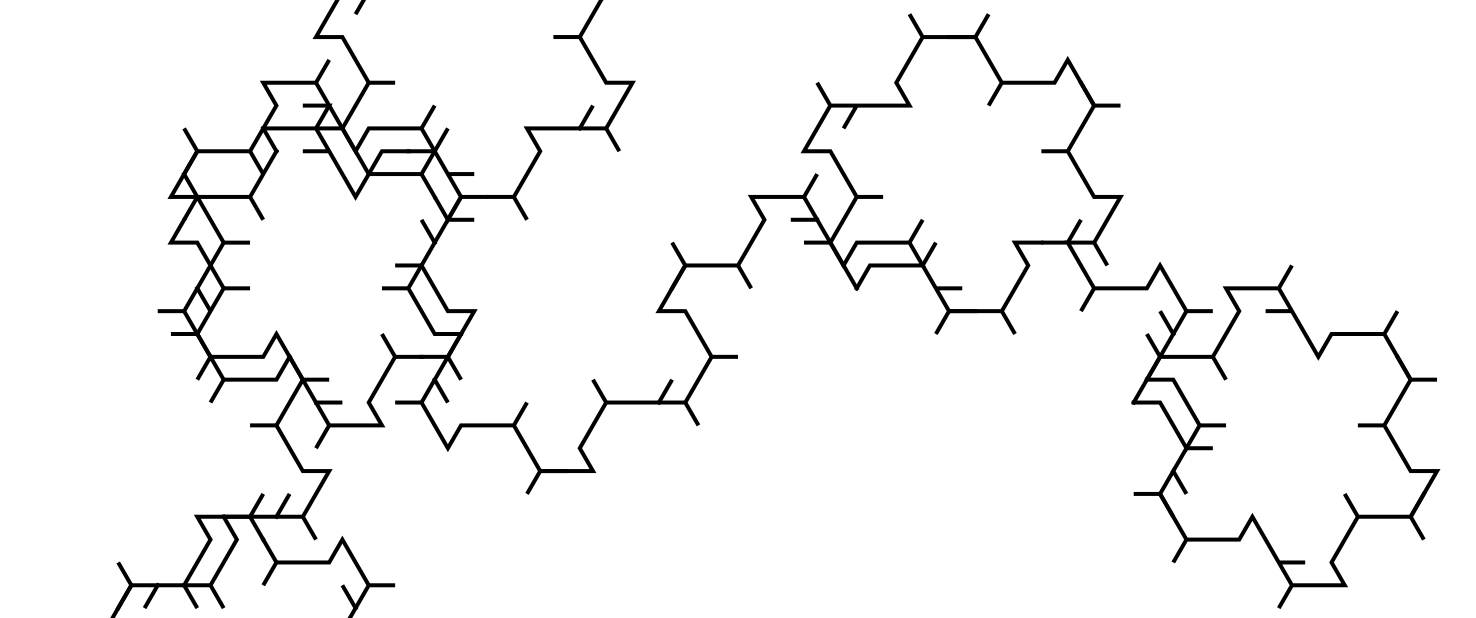
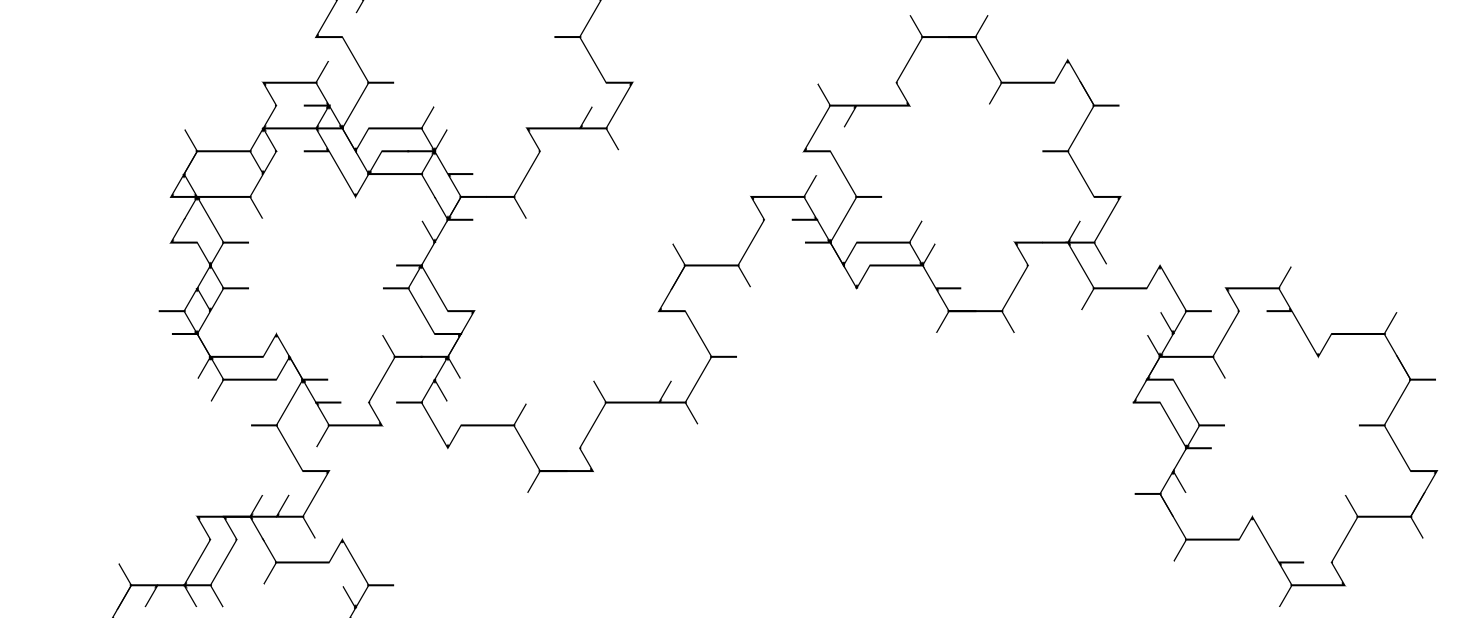
b&w old covers

diff --git a/content/posts/2025-05-12-beyond-hype-reasoning-models/post.md b/content/posts/2025-05-12-beyond-hype-reasoning-models/post.md
@@ -3,7 +3,7 @@ title: "Beyond the hype of reasoning models: debunking three common misunderstan
 description: "This is a teaser for my upcoming talk at ODSC East 2025, \"LLMs that Think: Demystifying Reasoning Models\". If you want to learn more, join the webinar!"
 date: 2025-05-12
 author: "ZanSara"
-featured-image: "/posts/2025-05-12-beyond-hype-reasoning-models/cover.png"
+featured-image: "/posts/2025-05-12-beyond-hype-reasoning-models/cover-inv.png"
 ---
 
 With the release of OpenAI’s o1 and similar models such as DeepSeek R1, Gemini 2.0 Flash Thinking, Phi 4 Reasoning and more, a new type of LLMs entered the scene: the so-called reasoning models. With their unbelievable scores in the toughest benchmarks for machine intelligence, reasoning models immediately got the attention of most AI enthusiasts, sparking speculations about their capabilities and what those could mean for the industry.

diff --git a/content/posts/2024-06-10-the-agent-compass/post.md b/content/posts/2024-06-10-the-agent-compass/post.md
@@ -3,7 +3,7 @@ title: "The Agent Compass"
 description: Agent means everything and nothing in today's GenAI landscape. Let's shed some light on this topic.
 date: 2024-06-10
 author: "ZanSara"
-featured-image: "/posts/2024-06-10-the-agent-compass/cover.png"
+featured-image: "/posts/2024-06-10-the-agent-compass/cover-inv.png"
 ---
 
 The concept of Agent is one of the vaguest out there in the post-ChatGPT landscape. The word has been used to identify systems that seem to have nothing in common with one another, from complex autonomous research systems down to a simple sequence of two predefined LLM calls. Even the distinction between Agents and techniques such as RAG and prompt engineering seems blurry at best.

diff --git a/content/posts/2025-05-16-llama-eu-ban/post.md b/content/posts/2025-05-16-llama-eu-ban/post.md
@@ -3,7 +3,7 @@ title: "Using Llama Models in the EU"
 description: The ban's terms are surprisingly not well known among users of these popular "open-source" LLMs.
 date: 2025-05-16
 author: "ZanSara"
-featured-image: "/posts/2025-05-16-llama-eu-ban/cover.png"
+featured-image: "/posts/2025-05-16-llama-eu-ban/cover-inv.png"
 ---
 
 [The Llama 4 family](https://ai.meta.com/blog/llama-4-multimodal-intelligence/) has been released over a month ago and I finally found some time to explore it. Or so I wished to do, until I realized one crucial issue with these models:

diff --git a/content/posts/2024-09-05-building-voice-agents-with-open-source-tools-part-1/post.md b/content/posts/2024-09-05-building-voice-agents-with-open-source-tools-part-1/post.md
@@ -3,7 +3,7 @@ title: "Building Reliable Voice Bots with Open Source Tools - Part 1"
 description: "A deep look at the main challenges of building performant and cost effective voice bots."
 date: 2024-09-20
 author: "ZanSara"
-featured-image: "/posts/2024-09-05-building-voice-agents-with-open-source-tools-part-1/cover.png"
+featured-image: "/posts/2024-09-05-building-voice-agents-with-open-source-tools-part-1/cover-inv.png"
 aliases:
 - /posts/2024-09-05-odsc-europe-voice-agents-part-1
 - /posts/2024-09-05-voice-bots-1/

diff --git a/content/posts/2024-10-30-building-voice-agents-with-open-source-tools-part-2/post.md b/content/posts/2024-10-30-building-voice-agents-with-open-source-tools-part-2/post.md
@@ -3,7 +3,7 @@ title: "Building Reliable Voice Bots with Open Source Tools - Part 2"
 description: "A practical guide on the best techniques to build performant and cost effective voice bots."
 date: 2024-10-30
 author: "ZanSara"
-featured-image: "/posts/2024-10-30-building-voice-agents-with-open-source-tools-part-2/cover.png"
+featured-image: "/posts/2024-10-30-building-voice-agents-with-open-source-tools-part-2/cover-inv.png"
 aliases:
 - /posts/2024-09-05-voice-bots-2/
 ---

diff --git a/content/posts/2025-05-21-vibecoding/post.md b/content/posts/2025-05-21-vibecoding/post.md
@@ -3,7 +3,7 @@ title: "A simple vibecoding exercise"
 description: "Can GenAI help you finish your side-projects?"
 date: 2025-05-21
 author: "ZanSara"
-featured-image: "/posts/2025-05-21-vibecoding/cover.png"
+featured-image: "/posts/2025-05-21-vibecoding/cover-inv.png"
 ---
 
 Sometimes, after an entire day of coding, the last thing you want to do is to code some more. It would be so great if I could just sit down and enjoy some Youtube videos...

diff --git a/content/posts/2026-02-04-how-does-llm-memory-work/post.md b/content/posts/2026-02-04-how-does-llm-memory-work/post.md
@@ -7,6 +7,8 @@ series: ["Practical Questions"]
 featured-image: "/posts/2026-02-04-how-does-llm-memory-work/cover-inv.png"
 ---
 
+---
+
 _This is episode 6 of a series of shorter blog posts answering questions I received during the course of my work and reflect common misconceptions and doubts about various generative AI technologies. You can find the whole series here: [Practical Questions](/series/practical-questions)._
 
 ---

diff --git a/content/posts/2025-12-11-what-are-moe-experts/post.md b/content/posts/2025-12-11-what-are-moe-experts/post.md
@@ -7,6 +7,8 @@ series: ["Practical Questions"]
 featured-image: "/posts/2025-12-11-what-are-moe-experts/cover-inv.png"
 ---
 
+---
+
 _This is episode 5 of a series of shorter blog posts answering questions I received during the course of my work and reflect common misconceptions and doubts about various generative AI technologies. You can find the whole series here: [Practical Questions](/series/practical-questions)._
 
 ---

diff --git a/content/posts/2024-05-06-teranoptia/post.md b/content/posts/2024-05-06-teranoptia/post.md
@@ -3,7 +3,7 @@ title: "Generating creatures with Teranoptia"
 description: Having fun with fonts doesn’t always mean obsessing over kerning and ligatures. Sometimes, writing text is not even the point!
 date: 2024-05-06
 author: "ZanSara"
-featured-image: "/posts/2024-05-06-teranoptia/cover.png"
+featured-image: "/posts/2024-05-06-teranoptia/cover-inv.png"
 ---
 
 

diff --git a/content/posts/2025-09-15-playing-guess-who-with-an-llm/post.md b/content/posts/2025-09-15-playing-guess-who-with-an-llm/post.md
@@ -3,7 +3,7 @@ title: "Trying to play \"Guess Who\" with an LLM"
 description: "I expected a different kind of fun."
 date: 2025-09-15
 author: "ZanSara"
-featured-image: "/posts/2025-09-15-playing-guess-who-with-an-llm/cover.png"
+featured-image: "/posts/2025-09-15-playing-guess-who-with-an-llm/cover-inv.png"
 ---
 
 
